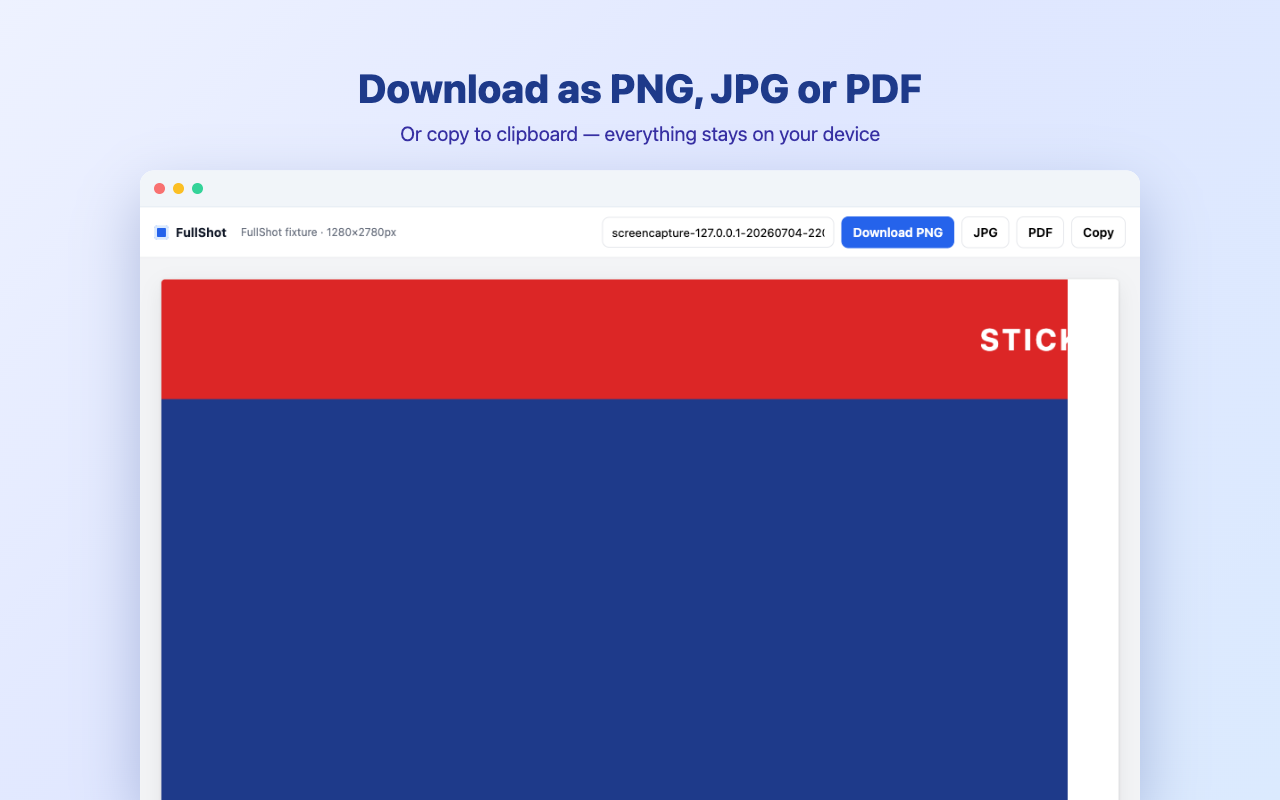
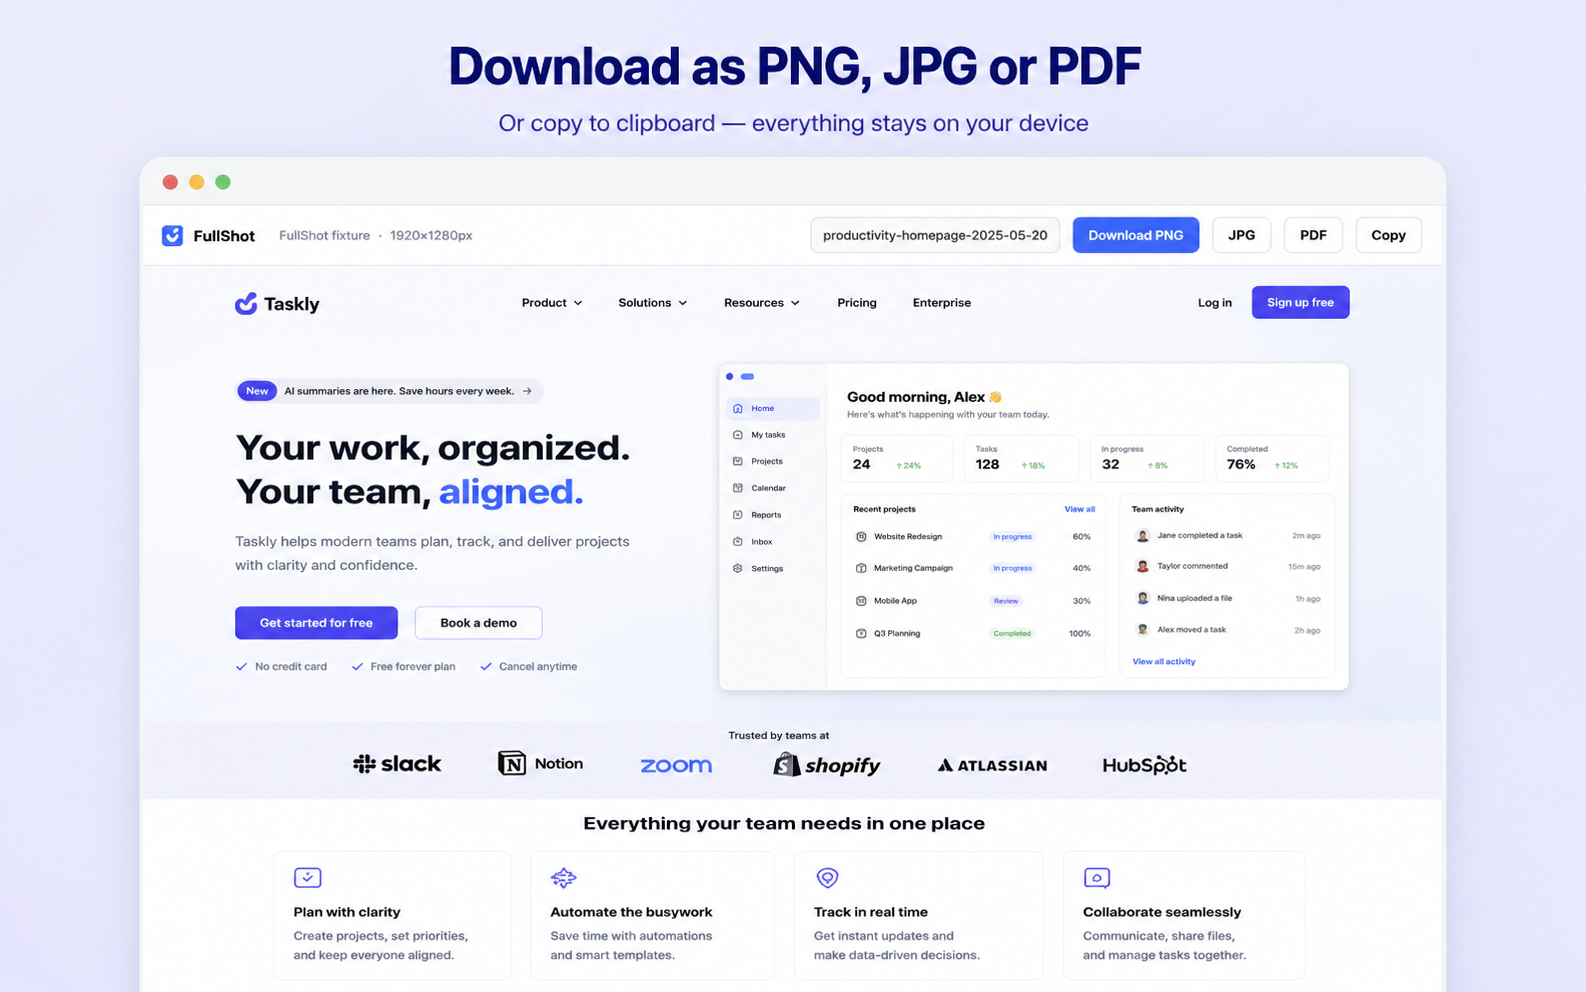
Optimize store listing for Chrome Web Store search (SEO)
- Keyword-rich title: "FullShot - Full Page Screenshot & Scrolling Screen
  Capture Tool" (manifest name; 63/75 chars)
- Reworked summary + detailed description to front-load searched terms
  (full page, scrolling, screen capture, screenshot to PDF, private/local)
- Every core keyword kept under 5 uses listing-wide (Chrome anti-spam policy)
- No behavior/permission changes; still activeTab-only

diff --git a/STORE_LISTING.md b/STORE_LISTING.md
@@ -27,15 +27,17 @@ https://shaunleeweirong.github.io/screenshot-downloader/
 
 ## Store listing tab
 
-### Title (≤75 chars)
+### Title (≤75 chars) — 63 chars
 ```
-FullShot — Full Page & Region Screenshots
+FullShot - Full Page Screenshot & Scrolling Screen Capture Tool
 ```
 
-### Summary / short description (≤132 chars)
+### Summary / short description (≤132 chars) — 129 chars
 ```
-Capture full-page, visible-area or region screenshots as PNG, JPG or PDF. 100% local, no account, minimal permissions.
+Capture full-page, scrolling, visible, or selected-region screenshots. 100% local & private. Export to PNG, JPG or PDF. No login.
 ```
+
+> SEO note: keyword-optimized for Chrome Web Store search. Every core term is kept **under 5 uses listing-wide** (screenshot 4 · capture 4 · full page 4 · PDF 4 · scrolling 3) to stay within Chrome's keyword-spam policy.
 
 ### Category
 **Productivity** (subcategory: Tools) — this is a focused utility, not a developer tool.
@@ -45,41 +47,35 @@ English (United States)
 
 ### Detailed description (≤16,000 chars)
 ```
-FullShot captures beautiful screenshots of any web page — the entire scrolling page, just the visible area, or a region you drag — and saves them as PNG, JPG, or PDF. It runs entirely on your device: no account, no sign-up, and nothing is ever uploaded.
+FullShot is a privacy-first screenshot tool that captures full-page (scroll & stitch), visible-area, and selected-region screenshots — right inside Chrome. Everything runs 100% locally on your device: activeTab-only, no account, no uploads. Save any result as PNG, JPG, or PDF.
 
 ━━━ WHAT YOU CAN DO ━━━
-
-• Full page — automatically scrolls and stitches the whole page into one tall image, even content below the fold.
+• Full page — scroll & stitch an entire webpage into one tall image, even long pages below the fold.
+• Scrolling / long pages — grab tall content far beyond the visible screen.
 • Visible area — one click to grab exactly what's on screen.
-• Selected region — drag to capture just the part you need.
-• Export as PNG, JPG, or PDF.
-• Copy to clipboard or drag the image straight out to save it.
-• Local history — re-download your recent captures any time.
+• Selected region — drag a box to grab just the part you need.
+• Export as PNG, JPG, or multi-page PDF, or copy straight to the clipboard.
+• Local history — re-download your recent images any time.
 
-━━━ BUILT FOR RELIABILITY ━━━
-
-Most full-page tools stumble on modern pages. FullShot handles the hard parts:
-• Sticky/fixed headers are shown once at the top and hidden afterward, so they don't repeat down the image.
-• A short settle delay per step lets lazy-loaded content appear before it's captured.
-• Very tall or high-resolution pages are split cleanly into multiple images instead of coming out blank.
+━━━ WHY FULLSHOT ━━━
+Most tools stumble on modern pages. FullShot handles the hard parts:
+• Sticky/fixed headers show once at the top and are hidden below, so they never repeat down the image.
+• Lazy-loaded content is given time to render before each step.
+• Very tall or high-resolution pages are split cleanly instead of coming out blank.
 
 ━━━ PRIVATE BY DESIGN ━━━
-
-• 100% local — every screenshot is created and stored on your own computer.
-• No account, no analytics, no trackers, no servers.
-• Minimal permissions: FullShot uses "activeTab", so it can only act on a page when YOU click the icon — it has no access to your browsing and no "read all your data on all websites" permission.
+• 100% local — every image is created and stored on your own computer.
+• No account, no sign-up, no analytics, no trackers, no servers.
+• Minimal permissions: activeTab means FullShot works only when YOU click it — with no "read all your data on all websites" access.
 
 ━━━ HOW TO USE ━━━
-
-1. Click the FullShot icon on any normal web page (or press Alt+Shift+P for a full-page capture).
-2. Pick a mode: Full page, Visible area, or Selected region.
-3. On the result tab, download as PNG / JPG / PDF, or copy to clipboard.
-Open Settings (the gear in the popup) to set your default format, image quality, and filename.
+1. Click the FullShot icon on any normal web page (or press Alt+Shift+P).
+2. Pick a mode, then save as PNG, JPG or PDF — or copy to the clipboard.
+Open Settings (the gear) to set your default format, image quality, and filename.
 
 ━━━ GOOD TO KNOW ━━━
-
-• Protected browser pages (chrome:// settings, the Chrome Web Store, the built-in PDF viewer) can't be captured by any extension.
-• Infinite-scroll feeds (for example the LinkedIn or X home feed) can't be fully captured by any screenshot tool, because those pages continuously load and unload content — the whole feed never exists at once. Use Visible area or Selected region there, or capture a normal page (article, profile, docs) with Full page.
+• Protected browser pages (chrome:// settings, the Chrome Web Store, and built-in viewers) can't be captured by any extension.
+• Infinite-scroll feeds (e.g. the LinkedIn or X home feed) can't be fully saved by any tool, because the whole feed never exists at once — use Visible area or Selected region there.
 
 FullShot is open source: https://github.com/shaunleeweirong/screenshot-downloader
 ```